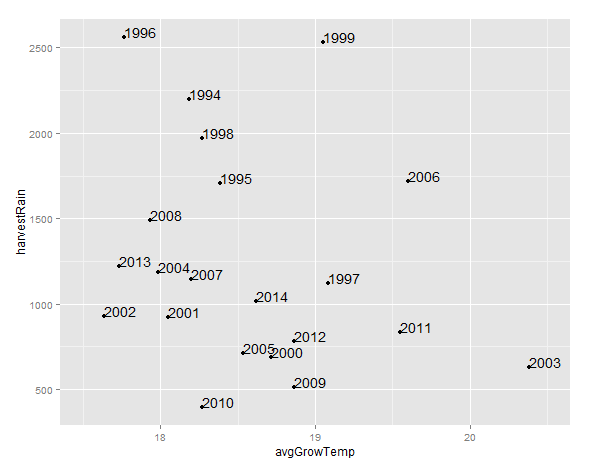
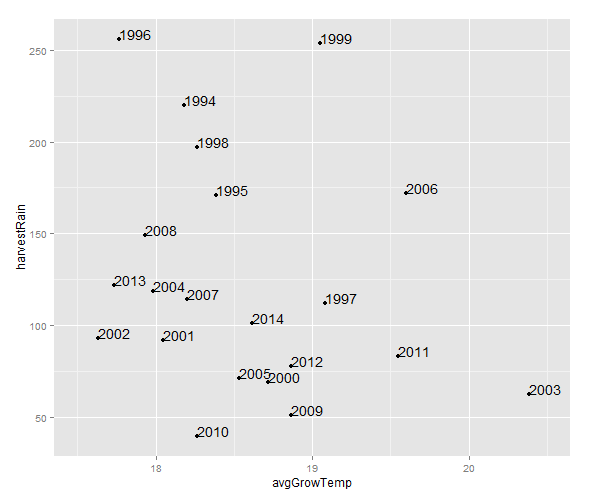
change rain scale in plot and param data to mm

diff --git a/public/index.html b/public/index.html
@@ -6,15 +6,15 @@
 	<br>
 	<div style='width:540px'>
 	<p>
-	Plot 1: shows favourable years for wines in the Bordeaux region. 
-	Low amount of rain during the harvest period and high average temperatures throughout
-	the growth season are deemed favourable for wine quality.
-	For instance, year 2003 appears to be a good year.
+	<b>Plot 1</b> shows favourable years for wines in the Bordeaux region. 
+	Low amount of rain during the harvest period (in mm) and high average temperatures 
+	(in degrees Celsius) throughout the growth season are deemed favourable for wine 
+	quality. For instance, year 2003 appears and indeed was a good year.
 	</p>
 	</div>
 	<img src="harvestRain-vs-avgGrowTemp.png">
 	<br>
-	Plot2: TBD
+	<b>Plot2</b> TBD
 	<br>
   </body>
 </html>

diff --git a/README.md b/README.md
@@ -1,7 +1,7 @@
 # ashenfelter
 
-project to estimate relative value of wine based on historical weather data
-based on O.Ashenfelter's regression model to help identify over- and underpriced ones
+A project to estimate relative value of wine based on historical weather data
+based on O.Ashenfelter's regression model to help identify over- and underpriced wines.
 
 ## demo
 
